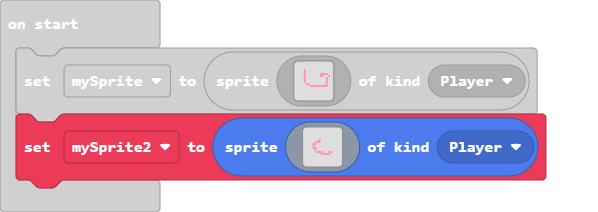
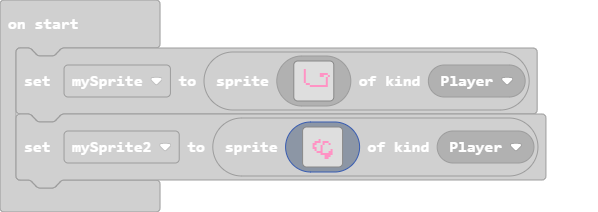
Update main.blocks, main.ts

Changed region(s): [[0.0, 0.5094, 0.9331, 0.9057], [0.5418, 0.6509, 0.5719, 0.6792], [0.5117, 0.6792, 0.5418, 0.7075]]

diff --git a/main.ts b/main.ts
@@ -22,15 +22,15 @@ let mySprite2 = sprites.create(img`
     . . . . . . . . . . . . . . . . 
     . . . . . . . . . . . . . . . . 
     . . . . . . 3 . . . . . . . . . 
-    . . . . 3 3 3 . . . . . . . . . 
-    . . . 3 3 . . . . . . . . . . . 
-    . . . 3 . . . . . . . . . . . . 
-    . . . 3 3 . . . . . . . . . . . 
-    . . . . 3 . . . . . . . . . . . 
+    . . . . 3 3 3 . 3 3 3 . . . . . 
+    . . . 3 3 . . . 3 . . 3 . . . . 
+    . . . 3 . . . 3 . . . . . . . . 
+    . . . 3 3 . . 3 . . . . . . . . 
+    . . . . 3 . . 3 . . . . 3 . . . 
     . . . . . 3 3 3 . . . 3 3 . . . 
-    . . . . . . . 3 3 3 3 3 . . . . 
-    . . . . . . . . . . . . . . . . 
-    . . . . . . . . . . . . . . . . 
+    . . . . . . . 3 3 3 3 3 3 . . . 
+    . . . . . . . . . 3 3 3 . . . . 
+    . . . . . . . . . 3 3 . . . . . 
     . . . . . . . . . . . . . . . . 
     . . . . . . . . . . . . . . . . 
     `, SpriteKind.Player)
